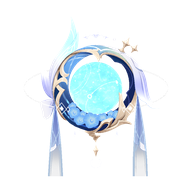
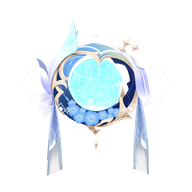
0.8.9: Nocturne moon is a glow, level halo, slower spin, ascended built like base

diff --git a/README.md b/README.md
@@ -86,7 +86,7 @@ Besides models, a layer can be a **particle emitter**. On the **Add** tab, start
 | **Nocturne** | A moon in a halo that turns in place beside your right arm, in two forms (**Base** and **Ascended**) shown under one heading. |
 | **Eyed wings** | Greyed out (with a link to the mod's page) until a compatible wing mod is in your `mods` folder (keep it disabled, it crashes Rainium while enabled). Its files are read from that mod. |
 
-Any layer can **Spin** (Edit > Behaviour): it turns around an upright axis at the speed you set, in degrees per second. **Spin around** picks the centre: the layer itself, the player, a body part, or another layer (which makes it circle that layer while the other one stays put). In a set file: `"spin": 180, "spin_center": "layer:Moon"` (or `"anchor:head"`). Nocturne uses it: everything turns around the moon at half a turn per second, and the moon stays still.
+Any layer can **Spin** (Edit > Behaviour): it turns around an upright axis at the speed you set, in degrees per second. **Spin around** picks the centre: the layer itself, the player, a body part, or another layer (which makes it circle that layer while the other one stays put). In a set file: `"spin": 180, "spin_center": "layer:Moon"` (or `"anchor:head"`). Nocturne uses it: everything turns around the moon at a quarter turn per second, and the moon stays still.
 
 You can add a preset again at any time from the **Add** tab, and **Reset to preset** puts a part back the way it came.
 

diff --git a/CHANGELOG.md b/CHANGELOG.md
@@ -2,6 +2,10 @@
 
 Rainium is in beta (0.x) until 1.0.0.
 
+## 0.8.9 (dev build)
+
+- **Nocturne:** the moon is now a glow instead of a solid layer, the halo sits level (parallel to the ground), and the spin is half as fast. Nocturne ascended is built the same way as the base form: every part turns around its own centre (the moon's), so the two behave alike.
+
 ## 0.8.8 (dev build)
 
 - **Spin around:** a spinning layer now turns around a centre you choose: itself, the player, a body part, or another layer (Edit > Behaviour > Spin around). Pick another layer to circle it while that layer stays still.
